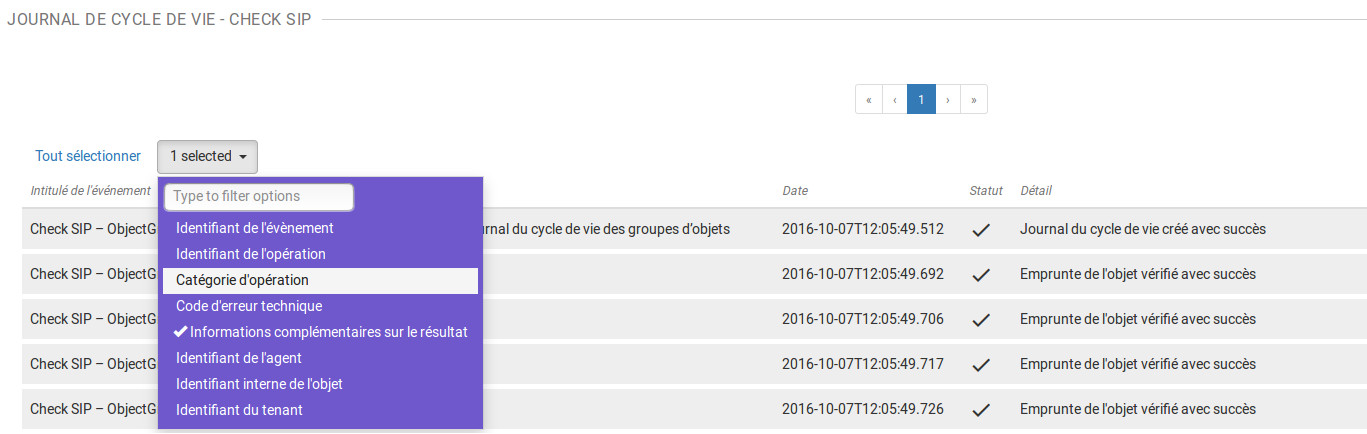
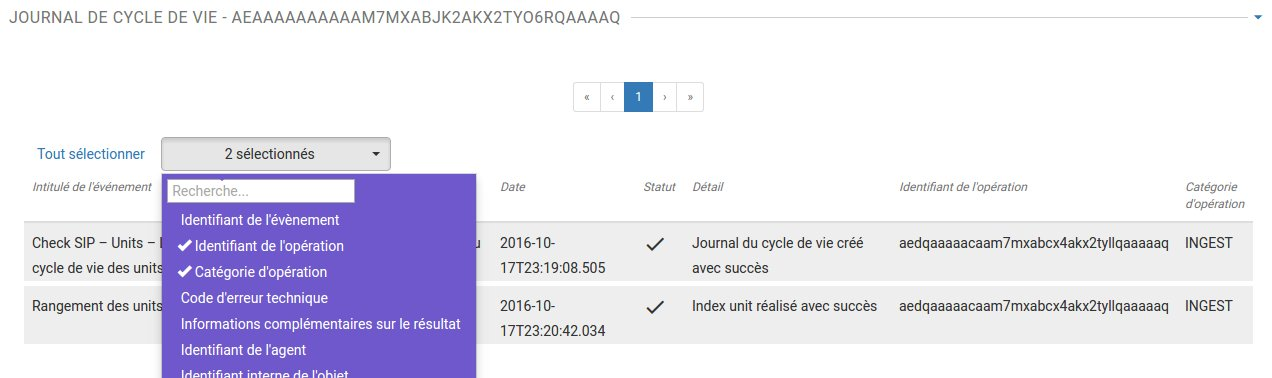
- Functional architecture - Technical architecture - Dev manuel
- User documentation : update documentation for logbook lifecycle ObjectGroup

- Added a new page for the archive unit detail

diff --git a/sources/worker/doc/fr/manuel-dev/worker.rst b/sources/worker/doc/fr/manuel-dev/worker.rst
@@ -213,25 +213,73 @@ TODO
 4.9 Détail du handler : StoreObjectGroupActionHandler
 '''''''''''''''''''''''''''''''''''''''''''''''''''''
 4.9.1 description
+'''''''''''''''''
 Persistence des objets dans l'offre de stockage depuis le workspace.
+
 TODO
 
 
-Détail du handler : FormatIdentificationActionHandler
-'''''''''''''''''''''''''''''''''''''''''''''''''''''
+4.10 Détail du handler : FormatIdentificationActionHandler
+''''''''''''''''''''''''''''''''''''''''''''''''''''''''''
+4.10.1 Description
+''''''''''''''''''
+
 Ce handler permet d'identifier et contrôler automatiquement le format des objets versés.
 Il s'exécute sur les différents ObjectGroups déclarés dans le manifest. Pour chaque objectGroup, voici ce qui est effectué :
  - récupération du JSON de l'objectGroup présent sur le Workspace
  - transformation de ce Json en une map d'id d'objets / uri de l'objet associée
  - boucle sur les objets :
    - téléchargement de l'objet (File) depuis le Workspace
-   - appel Siegfried en lui passant le path vers l'objet à identifier + récupération de la réponse.
+   - appel l'outil de vérification de format (actuellement Siegfried) en lui passant le path vers l'objet à identifier + récupération de la réponse.
    - appel de l'AdminManagement pour faire une recherche getFormats par rapport au PUID récupéré.
    - mise à jour du Json : le format récupéré par Siegfried est mis à jour dans le Json (pour indexation future).
    - construction d'une réponse.
  - sauvegarde du JSON de l'objectGroup dans le Workspace.
  - aggrégation des retours pour générer un message + mise à jour du logbook. 
-  
+
+4.10.2 Détail des différentes maps utilisées :
+''''''''''''''''''''''''''''''''''''''''''''''
+Map<String, String> objectIdToUri
+    contenu         : cette map contient l'id du BDO associé à son uri.
+    création        : elle est créée dans le Handler après récupération du json listant les ObjectGroups
+    MAJ, put        : elle est populée lors de la lecture du json listant les ObjectGroups.
+    lecture, get    : lecture au fur et à mesure du traitement des BDO.
+    suppression     : elle n'est pas enregistrée sur le workspace et est présente en mémoire uniquement.
+
+4.10.3 exécution
+''''''''''''''''
+Ce Handler est exécuté dans l'étape "Contrôle et traitements des objets", juste après le Handler de vérification des empreintes.
+
+4.10.4 journalisation : logbook operation? logbook life cycle?
+''''''''''''''''''''''''''''''''''''''''''''''''''''''''''''''
+Dans le traitement du Handler, sont mis à jour uniquement les journaux de cycle de vie des ObjectGroups.
+Les Outcome pour les journaux de cycle de vie peuvent être les suivants : 
+ - Le format PUID n'a pas été trouvé / ne correspond pas avec le référentiel des formats.
+ - Le format du fichier n'a pas pu être trouvé. 
+ - Le format du fichier a été complété dans les métadonnées (un "diff" est généré et ajouté).
+ - Le format est correct et correspond au référentiel des formats.
+ 
+(Note : les messages sont informatifs et ne correspondent aucunement à ce qui sera vraiment inséré en base) 
+ 
+4.10.5 modules utilisés
+'''''''''''''''''''''''
+Le Handler utilise les modules suivants : 
+ - Workspace (récupération / copie de fichiers)
+ - Logbook (mise à jour des journaux de cycle de vie des ObjectGroups)
+ - Common-format-identification (appel pour analyse des objets)
+ - AdminManagement (comparaison format retourné par l'outil d'analyse par rapport au référentiel des formats de Vitam).
+
+4.10.6 cas d'erreur
+'''''''''''''''''''
+Les différentes exceptions pouvant être rencontrées : 
+ - ReferentialException : si un problème est rencontré lors de l'interrogation du référentiel des formats de Vitam
+ - InvalidParseOperationException/InvalidCreateOperationException : si un problème est rencontré lors de la génération de la requête d'interrogation du référentiel des formats de Vitam
+ - FormatIdentifier*Exception : si un problème est rencontré avec l'outil d'analyse des formats (Siegfried)
+ - Logbook*Exception : si un problème est rencontré lors de l'interrogation du logbook
+ - Logbook*Exception : si un problème est rencontré lors de l'interrogation du logbook
+ - Content*Exception : si un problème est rencontré lors de l'interrogation du workspace
+ - ProcessingException : si un problème plus général est rencontré dans le Handler
+
 
 Worker-common
 -------------

diff --git a/sources/common/doc/fr/manuel-dev/format-identifier.rst b/sources/common/doc/fr/manuel-dev/format-identifier.rst
@@ -1,0 +1,77 @@
+Common format identification
+############################
+
+But de cette documentation
+==========================
+
+Cette documentation indique comment utiliser le code commun du format identifier pour éventuellement ajouter un client pour un nouvel outil.
+
+Outil Format Identifier
+=======================
+
+L'interface du format identifier est *fr.gouv.vitam.common.format.identification.FormatIdentifier*.
+Elle met à disposition 2 méthodes : 
+ - status() qui renvoie le statut du format identifer
+ - analysePath(Path) qui renvoie une liste de formats potentiellement identifiés par l'outil.
+ 
+ Une implémentation Mock est présente : *fr.gouv.vitam.common.format.identification.FormatIdentifierMock*
+ 
+ Chaque nouvel outil doit implémenter l'interface : 
+ 
+.. code-block:: java
+
+   public class FormatIdentifierSiegfried implements FormatIdentifier {
+      @Override
+      public FormatIdentifierInfo status() { //CALL THE TOOL AND GET THE STATUS }
+      
+      @Override
+      public List<FormatIdentifierResponse> analysePath(Path path) { //CALL THE TOOL AND ANALYSE}
+   }
+ 
+De plus, pour pouvoir être utilisé, l'outil doit être ajouté dans l'enum FormatIdentifierType :
+
+.. code-block:: java
+   public enum FormatIdentifierType {
+       MOCK,
+       SIEGFRIED
+   }
+      
+Une factory a été mise en place pour récupérer l'instance du client adaptée. En cas de nouvel outil, il faut la mettre à jour : 
+
+.. code-block:: java
+   public class FormatIdentifierFactory {
+       ......
+       
+       private FormatIdentifier instanciate(String formatIdentifierId){
+         ...
+           switch (infos.getType()) {
+               case MOCK:
+                   return new FormatIdentifierMock();
+               case SIEGFRIED:
+                   return new FormatIdentifierSiegfried(infos.getConfigurationProperties());
+            .....
+                   
+          }
+   }
+
+Configuration :
+===============
+
+Dans **/vitam/conf** du serveur applicatif où sont déployés les services d'identification de formats, il faut un fichier **format-identifiers.conf**. C'est un fichier YAML de configuration des services d'identification de format.  Il possède les configurations des services que l'on souhaite déployer sur le serveur.
+
+Le code suivant contient un exemple de toutes les configurations possibles :
+
+.. code-block:: yaml
+
+   siegfried-local:
+      type: SIEGFRIED
+      client: http
+      host: localhost
+      port: 55800
+      rootPath: /root/path
+      versionPath: /root/path/version/folder
+      createVersionPath: false
+   mock:
+      type: MOCK
+
+Pour plus d'informations sur le sujet, voir la documentation sur l'exploitation.

diff --git a/sources/ihm-demo/doc/fr/manuel-utilisateur/lifecycle.rst b/sources/ihm-demo/doc/fr/manuel-utilisateur/lifecycle.rst
@@ -1,10 +1,13 @@
 Journal du cycle de vie
 #######################
 
+Cycle de vie des Archive Units
+******************************
+
 Accès
 -----
 
-Pour acceder au journal du cycle de vie à partir des détails d'un Archive Unit, cliquer sur le bouton "Journal du cycle de vie" en haut à droite de la page
+Pour acceder au journal du cycle de vie à partir des détails d'un Archive Unit, cliquer sur le bouton "Journal du cycle de vie" en haut à droite de la page.
 
 .. image:: images/lifecycle-logbook-button.*
 
@@ -12,8 +15,29 @@ Dynamisation des champs affichés
 --------------------------------
 
 Par défaut, les champs "Intitulé de lévenement", "Date", "Statut" et "Détail" sont affichés.
-Il est possible de sélectionner plus de champs grâce au bouton "Select". Des champs supplémentaires apparaissent alors.
+Il est possible de sélectionner plus de champs grâce au bouton "Informations Supplémentaires". Des champs supplémentaires apparaissent alors.
 
 .. image:: images/lifecycle-logbook-select.*
 
-Il est également possible d'afficher/cacher les champs supplémentaire en un seul clique grâce au lien "Tout sélectionner"/"Tout déselectionner"
+Il est également possible d'afficher/cacher les champs supplémentaire en un seul clic grâce au lien "Tout sélectionner"/"Tout déselectionner"
+
+
+Cycle de vie des Groupes d'objets
+*********************************
+
+Accès
+-----
+
+Pour acceder au journal du cycle de vie à partir de la liste des groupes d'objets (dans la page de détail de l'archive unit), cliquer sur le bouton "Journal de Cycle de vie du groupe d'objets" à droite de la page du titre.
+
+.. image:: images/lifecycle-logbook-got-button.*
+
+Dynamisation des champs affichés
+--------------------------------
+
+Par défaut, les champs "Intitulé de lévenement", "Date", "Statut" et "Détail" sont affichés.
+Il est possible de sélectionner plus de champs grâce au bouton "Informations Supplémentaires". Des champs supplémentaires apparaissent alors.
+
+.. image:: images/lifecycle-logbook-got-select.*
+
+Il est également possible d'afficher/cacher les champs supplémentaire en un seul clic grâce au lien "Tout sélectionner"/"Tout déselectionner"

diff --git a/sources/common/doc/fr/archi/technique/format-identifier.rst b/sources/common/doc/fr/archi/technique/format-identifier.rst
@@ -1,0 +1,53 @@
+Common format identification
+############################
+
+
+Présentation
+************
+
+Le fonctionnement de cette brique est la suivante.
+Un outil d'identification est installé sur un environnement à déterminer.
+Ce service offre une API Rest permettant d'obtenir :
+ - un status  
+ - l'analyse d'un format en fonction du Path vers le fichier à analyser.
+
+
+|  *Package parent :* **fr.gouv.vitam.common.format.identification**
+
+Sous packages
+*************
+
+Identification :
+================
+| *Package :*  **fr.gouv.vitam.common.format.identification**
+
+Ce package contient une factory, une interface de client, ainsi qu'un client mocké. 
+Il contient également une enum précisant les différents clients disponibles (pour l'instant au nombre de 2 : siegfried + mock).
+
+Exceptions :
+============
+| *Package :*  **fr.gouv.vitam.common.format.identification.exception**
+Exceptions retournées par la vérification de formats.
+Sont au nombre de 5 : 
+ - FileFormatNotFoundException : exception levée en cas de non résolution d'un format de fichier.
+ - FormatIdentifierBadRequestException : exception levée si la requete soumise à l'outil n'est pas correcte.
+ - FormatIdentifierFactoryException : exception levée dans le cadre de la factory.
+ - FormatIdentifierNotFoundException : exception levée si l'outil ne peut pas être interrogé.
+ - FormatIdentifierTechnicalException : exception levée en cas d'erreur technique générique.
+ 
+Model :
+=======
+
+| *Package :*  **fr.gouv.vitam.common.format.identification.model**
+
+Ce package contient une classe de configuration ainsi que 2 POJO de réponses pour des appels au service. 
+
+
+Siegfried :
+===========
+
+| *Package :*  **fr.gouv.vitam.common.format.identification.siegfried**
+
+Ce package contient les différences classes pour l'utilisation d'un client Siegfried. Une factory, un mock ainsi qu'un client REST. 
+
+

diff --git a/sources/ihm-demo/doc/fr/manuel-utilisateur/archiveunit.rst b/sources/ihm-demo/doc/fr/manuel-utilisateur/archiveunit.rst
@@ -1,0 +1,33 @@
+Détail d'une archive Unit
+#########################
+
+Accès
+-----
+
+Pour accéder au détail de l'archive unit, il suffit de cliquer sur un résultat de la recherche d'archives.
+
+.. image:: images/archives-recherche.*
+
+Sur cette page, est affiché le détail d'une archive.
+
+.. image:: images/archive-detail.*
+
+Modification des métadonnées
+----------------------------
+
+Il est possible en cliquant sur le bouton "Modifier" de modifier les métadonnées de l'archive.
+En cliquant sur l'icone "Modifier" à côté de la métadonnée que l'on souhaite modifier, il est possible de la modifier. 
+
+.. image:: images/archive-modification.*
+
+Une fois toutes les modifications effectuées, on peut sauvegarder en cliquant sur le bouton "Sauvegarder".
+Une pop-up apparait alors pour confirmer la modification des métadonnées.
+
+.. image:: images/archive-confirmation.*
+
+
+Vérification de la modification de la métadonnée
+------------------------------------------------
+Pour vérifier la modification, il suffit d'aller voir le journal de cycle de vie de l'archive unit. 
+
+.. image:: images/archive-lifecycle-confirmation.*

diff --git a/sources/common/doc/fr/archi/fonctionnelle/format-identifier.rst b/sources/common/doc/fr/archi/fonctionnelle/format-identifier.rst
@@ -1,0 +1,20 @@
+Introduction
+############
+
+   Vitam traite des arbres des archive units et des groupes d'objet qui peuvent être présenter par des graphes précisement par Graphe orienté acyclique(D.A.G).
+   
+
+
+Vérification des formats :
+**************************
+
+Cette vérification de format devra intervenir à différents endroits du processing, et pour différents types de workflow.
+A l'heure actuelle, pour le processus d'Ingest, nous avons : 
+ - vérification du format du SIP intégré dans l'upload (zip, tar, tar.gz...)
+ - vérification des objets techniques contenus dans le SIP.
+
+Il apparait clairement, qu'une mise en commun de cet outil doit être effectué. 
+C'est pourquoi le module common-format-identification a été ajouté dans la partie commune. 
+De cette manière un outil de vérification des formats pourra être utilisé dans n'importe couche Vitam, si besoin.
+
+Pour le moment, l'outil choisi pour effectuer cette vérification de format est Siegfried.

diff --git a/sources/ihm-demo/doc/fr/manuel-utilisateur/_toc.rst b/sources/ihm-demo/doc/fr/manuel-utilisateur/_toc.rst
@@ -5,5 +5,6 @@ IHM demo
    :maxdepth: 2
 
    introduction.rst
+   archiveunit.rst
    lifecycle.rst
    logbookoperation.rst

diff --git a/sources/common/doc/fr/archi/fonctionnelle/index.rst b/sources/common/doc/fr/archi/fonctionnelle/index.rst
@@ -8,4 +8,4 @@ Architecture Fonctionnelle
    introduction.rst
    GUID.rst
    graph.rst
-
+   format-identifier.rst

diff --git a/sources/common/doc/fr/manuel-dev/_toc.rst b/sources/common/doc/fr/manuel-dev/_toc.rst
@@ -12,4 +12,5 @@ Common
    client.rst
    graph.rst
    VitamCode.rst
+   format-identifier.rst
    private/_toc.rst

diff --git a/sources/common/doc/fr/archi/technique/index.rst b/sources/common/doc/fr/archi/technique/index.rst
@@ -9,3 +9,4 @@ Architecture Technique
    GUID.rst
    jetty.rst
    certs-auth.rst
+   format-identifier.rst
